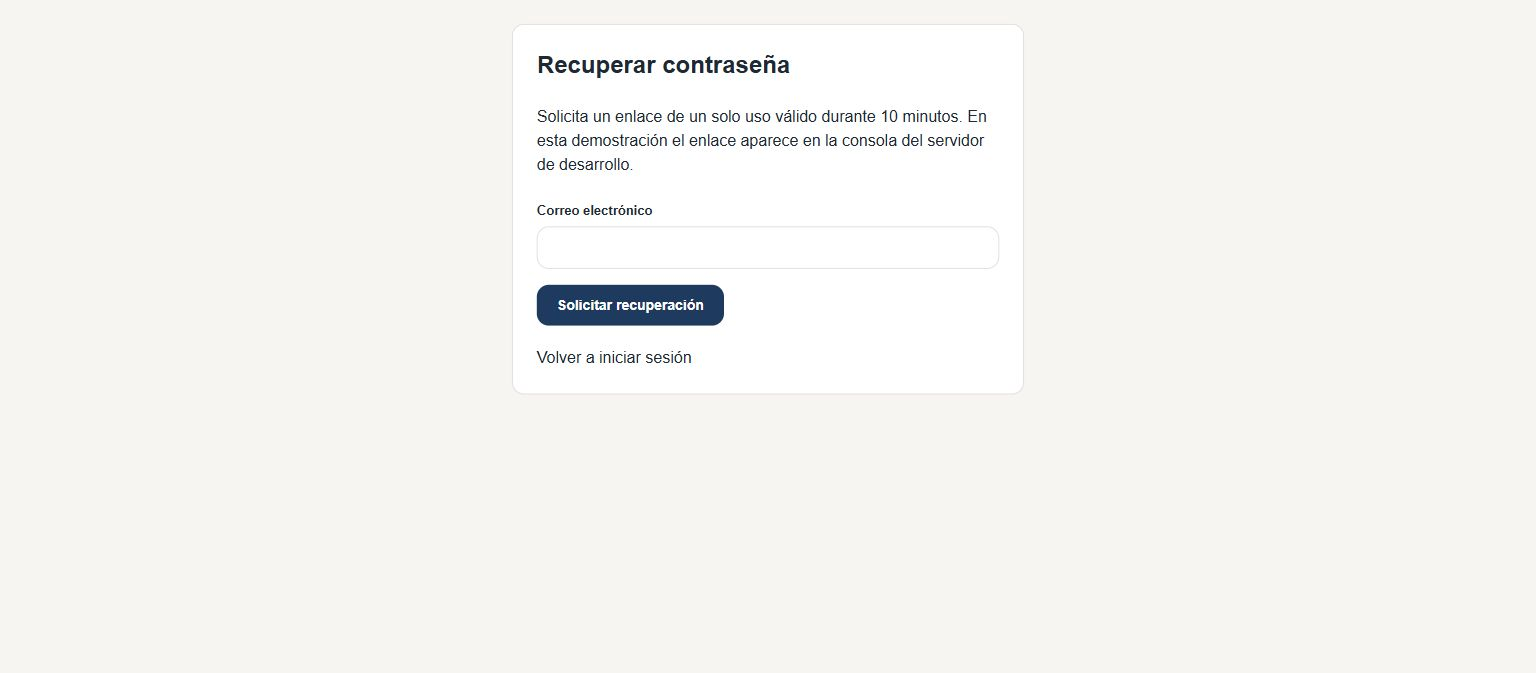
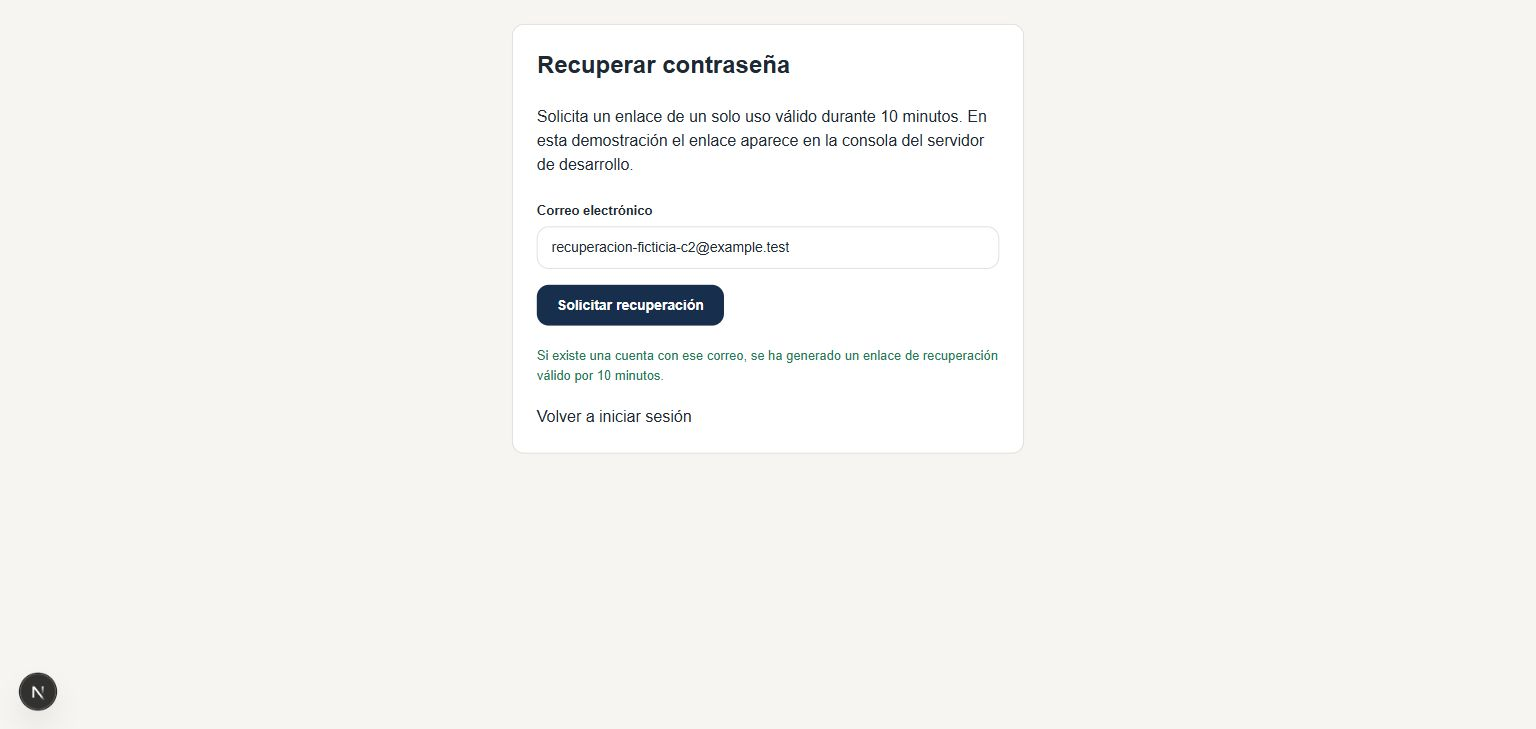
christian: verificar integracion de identidad roles y sesiones C2

diff --git a/src/tests/auth-c2.integration.ts b/src/tests/auth-c2.integration.ts
@@ -1,0 +1,143 @@
+/** Lunes 16/11: npm run dev y luego
+ * node --env-file=.env --import tsx src/tests/auth-c2.integration.ts
+ * --evidence mantiene fixtures propios hasta pulsar Enter para capturar el navegador.
+ * No modifica cuentas demo ni código de otros módulos.
+ */
+import assert from "node:assert/strict";
+import { randomUUID } from "node:crypto";
+import { createInterface } from "node:readline/promises";
+import bcrypt from "bcryptjs";
+import type { Role } from "@prisma/client";
+import { prisma } from "@/lib/prisma";
+import { encryptCedula } from "@/lib/auth/crypto";
+import { requireRole } from "@/lib/auth/guards";
+import { getUserFromCookieHeader } from "@/lib/auth/session";
+// Importaciones reales de consumidores: comprueban el mismo contrato sin editar sus archivos.
+import { authenticateSocketHandshake } from "@/server/socket/index";
+
+const origin = "http://localhost:3000";
+const password = "Una frase ficticia para integrar el lunes!";
+const emails: string[] = [];
+let phase = "rutas sin sesión";
+const call = (url: string, cookie?: string, body?: unknown) => fetch(`${origin}${url}`, {
+  method: body === undefined ? "GET" : "POST", redirect: "manual", signal: AbortSignal.timeout(30000),
+  headers: { Origin: origin, ...(cookie ? { Cookie: cookie } : {}), "Content-Type": "application/json" },
+  ...(body === undefined ? {} : { body: JSON.stringify(body) }),
+});
+function privateResponse(text: string, secrets: string[] = []) {
+  for (const secret of ["passwordHash", "cedulaCifrada", "tokenHash", password, ...secrets]) {
+    assert.ok(!text.includes(secret), "Respuesta con credenciales o campos privados.");
+  }
+}
+async function redirected(url: string, cookie?: string) {
+  const response = await call(url, cookie);
+  const html = await response.text();
+  if ([303, 307, 308].includes(response.status)) {
+    assert.equal(new URL(response.headers.get("location")!, origin).pathname, "/iniciar-sesion");
+  } else {
+    assert.equal(response.status, 200);
+    assert.ok((html.match(/<meta\b[^>]*>/g) ?? []).some((meta) =>
+      /http-equiv="refresh"/i.test(meta) && /content="\d+;url=\/iniciar-sesion"/.test(meta)));
+  }
+  privateResponse(html);
+  assert.ok(!html.includes("Mi perfil"));
+  assert.ok(!html.includes("Administración de usuarios"));
+}
+async function fixture(role: Role) {
+  const email = `c2-${randomUUID()}@example.test`;
+  emails.push(email);
+  return prisma.user.create({ data: {
+    nombreCompleto: "Cuenta ficticia C2", email, status: "ACTIVA",
+    passwordHash: await bcrypt.hash(password, 12), cedulaCifrada: encryptCedula("1234567890"),
+    roles: { create: { role } },
+  } });
+}
+async function credential(email: string) {
+  const response = await call("/api/auth/login", undefined, { email, password, roles: ["ADMIN_SUBASTAS"] });
+  assert.equal(response.status, 200);
+  const setCookie = response.headers.get("set-cookie")!;
+  for (const flag of ["HttpOnly", "SameSite=Lax", "Path=/"]) assert.ok(setCookie.includes(flag));
+  privateResponse(await response.text());
+  return setCookie.split(";")[0];
+}
+async function main() {
+  try {
+    for (const url of ["/panel", "/perfil", "/admin/usuarios"]) await redirected(url);
+    for (const url of ["/api/auth/me", "/api/admin/users", "/api/articles", "/api/verification", "/api/me/bids"]) {
+      assert.equal((await call(url)).status, 401, url);
+    }
+    assert.equal((await call("/api/auctions", undefined, {})).status, 401);
+    console.log("PASS C2: rutas SSR directas redirigen; APIs auth/artículos/verificación/pujas/subastas exigen sesión.");
+
+    const admin = await fixture("ADMIN_SUBASTAS"), buyer = await fixture("COMPRADOR");
+    const adminCookie = await credential(admin.email), buyerCookie = await credential(buyer.email);
+    phase = "matriz de roles y privacidad";
+    for (const [cookie, expected] of [[buyerCookie, 403], [adminCookie, 200]] as const) {
+      const response = await call("/api/admin/users", cookie);
+      assert.equal(response.status, expected);
+      privateResponse(await response.text(), [admin.passwordHash, buyer.cedulaCifrada]);
+    }
+    const me = await call("/api/auth/me", buyerCookie);
+    assert.equal(me.status, 200);
+    assert.deepEqual(Object.keys((await me.json()).data.user).sort(), ["email", "id", "nombreCompleto", "roles", "status"]);
+    const denied = await call("/admin/usuarios", buyerCookie);
+    const deniedHtml = await denied.text();
+    assert.ok(deniedHtml.includes("Acceso restringido"));
+    assert.ok(!deniedHtml.includes("Administración de usuarios"));
+    for (const url of ["/panel", "/perfil", "/admin/usuarios"]) {
+      const response = await call(url, adminCookie);
+      assert.equal(response.status, 200);
+      privateResponse(await response.text(), [admin.passwordHash, admin.cedulaCifrada, adminCookie.split("=")[1]]);
+    }
+    for (const url of ["/api/articles", "/api/verification"]) assert.equal((await call(url, buyerCookie)).status, 403, url);
+    assert.equal((await call("/api/auctions", buyerCookie, {})).status, 403);
+    assert.equal((await call("/api/me/bids", buyerCookie)).status, 200);
+    console.log("PASS C2: usuarios 401/403/200, comprador sin privilegios inventados; SSR y JSON sin hashes ni tokens.");
+
+    phase = "contrato Socket.IO";
+    const socket: Parameters<typeof authenticateSocketHandshake>[0] = { handshake: { headers: { cookie: buyerCookie } } as never, data: {} };
+    const handshakeResults: (Error | undefined)[] = [];
+    await authenticateSocketHandshake(socket, (error) => { handshakeResults.push(error); });
+    assert.deepEqual(handshakeResults, [undefined]);
+    assert.equal(socket.data.userId, buyer.id);
+    assert.deepEqual(socket.data.roles, ["COMPRADOR"]);
+    assert.equal((await getUserFromCookieHeader(buyerCookie))?.id, buyer.id);
+    const deniedHandshake: (Error | undefined)[] = [];
+    await authenticateSocketHandshake({ handshake: { headers: {} } as never, data: {} }, (error) => { deniedHandshake.push(error); });
+    assert.equal(deniedHandshake.length, 1);
+    assert.equal(deniedHandshake[0]?.message, "UNAUTHORIZED");
+    console.log("PASS C2: handshake real de Kevin importa el helper y resuelve la misma cookie pf_session contra PostgreSQL.");
+
+    phase = "cambio de rol persistido sin renovar cookie";
+    await prisma.userRole.updateMany({ where: { userId: admin.id }, data: { role: "COMPRADOR" } });
+    assert.equal((await getUserFromCookieHeader(adminCookie))?.roles[0], "COMPRADOR");
+    await assert.rejects(() => requireRole(new Request(`${origin}/api/test`, { headers: { Cookie: adminCookie } }), ["ADMIN_SUBASTAS"]), { status: 403 });
+    assert.equal((await call("/api/admin/users", adminCookie)).status, 403);
+    const changedPage = await call("/admin/usuarios", adminCookie);
+    assert.ok((await changedPage.text()).includes("Acceso restringido"));
+    await prisma.user.update({ where: { id: admin.id }, data: { status: "SUSPENDIDA" } });
+    assert.equal((await call("/api/auth/me", adminCookie)).status, 401);
+    await redirected("/perfil", adminCookie);
+    console.log("PASS C2: un cambio real de rol o suspensión revoca acceso en la siguiente petición con la misma cookie.");
+
+    if (process.argv.includes("--evidence")) {
+      console.log(`EVIDENCE comprador ficticio: ${buyer.email}`);
+      const terminal = createInterface({ input: process.stdin, output: process.stdout });
+      try { await terminal.question("EVIDENCE: Enter para limpiar las cuentas de este run.\n"); }
+      finally { terminal.close(); }
+    }
+  } finally {
+    const users = await prisma.user.findMany({ where: { email: { in: emails } }, select: { id: true } });
+    const ids = users.map(({ id }) => id);
+    await prisma.$transaction([
+      prisma.auditEvent.deleteMany({ where: { actorId: { in: ids } } }),
+      prisma.session.deleteMany({ where: { userId: { in: ids } } }),
+      prisma.userRole.deleteMany({ where: { userId: { in: ids } } }),
+      prisma.user.deleteMany({ where: { id: { in: ids } } }),
+    ]);
+    assert.equal(await prisma.user.count({ where: { email: { in: emails } } }), 0);
+    await prisma.$disconnect();
+    console.log("PASS C2: limpieza de cuentas, sesiones, roles y auditorías de fixtures propios.");
+  }
+}
+main().catch(() => { console.error(`FAIL C2 en ${phase}. No se imprimen credenciales.`); process.exitCode = 1; });

diff --git a/src/tests/auth.test.ts b/src/tests/auth.test.ts
@@ -544,6 +544,47 @@ describe("Christian C0 — sesión SSR usada por /panel", () => {
   });
 });
 
+describe("Christian C2 — límites de identidad e integración", () => {
+  it("verifica la contraseña contra hashes con sal distinta y cifra la cédula con IV distinto", async () => {
+    const password = "Una frase ficticia para integrar el lunes!";
+    const hashes = await Promise.all([bcrypt.hash(password, 4), bcrypt.hash(password, 4)]);
+    expect(hashes[0]).not.toBe(hashes[1]);
+    for (const passwordHash of hashes) {
+      expect(await bcrypt.compare(password, passwordHash)).toBe(true);
+      expect(await bcrypt.compare("Una frase diferente para la prueba!", passwordHash)).toBe(false);
+    }
+    const cedula = "1234567890";
+    const encrypted = [encryptCedula(cedula), encryptCedula(cedula)];
+    expect(encrypted[0]).not.toBe(encrypted[1]);
+    for (const ciphertext of encrypted) {
+      expect(ciphertext).not.toBe(cedula);
+      expect(decryptCedula(ciphertext)).toBe(cedula);
+    }
+  });
+  it("un login con roles y estado inventados conserva solo los permisos de PostgreSQL", async () => {
+    const password = "Una frase ficticia para integrar el lunes!";
+    db.user.findUnique.mockResolvedValue({ ...user, passwordHash: await bcrypt.hash(password, 4) });
+    const response = await login(mutation("/api/auth/login", {
+      email: user.email, password, roles: ["ADMIN_SUBASTAS"], status: "ACTIVA",
+    }));
+    expect(response.status).toBe(200);
+    expect((await response.json()).data.user.roles).toEqual(["COMPRADOR"]);
+    await expect(requireRole(request(), ["ADMIN_SUBASTAS"])).rejects.toMatchObject({ status: 403, code: "ROL_NO_PERMITIDO" });
+  });
+  it("un reset que vence exactamente ahora no cambia contraseña ni revoca sesiones", async () => {
+    vi.useFakeTimers({ toFake: ["Date"] });
+    const now = new Date("2026-11-16T15:00:00Z");
+    vi.setSystemTime(now);
+    db.passwordReset.findUnique.mockResolvedValue({ id: "reset", userId: user.id, usedAt: null, expiresAt: now });
+    const response = await reset(mutation("/api/auth/reset-password", { token, newPassword: "Una frase ficticia para integrar el lunes!" }));
+    expect(response.status).toBe(400);
+    expect((await response.json()).error.code).toBe("TOKEN_INVALIDO");
+    expect(db.$transaction).not.toHaveBeenCalled();
+    expect(db.user.update).not.toHaveBeenCalled();
+    expect(db.session.deleteMany).not.toHaveBeenCalled();
+  });
+});
+
 describe("Christian C0 — privacidad de respuestas HTTP", () => {
   it("no incluye token ni credenciales en JSON de login/me y limita el select del usuario", async () => {
     const password = "Mi frase ficticia segura 2026!";

diff --git a/docs/evidencias/christian-c2.md b/docs/evidencias/christian-c2.md
@@ -1,0 +1,77 @@
+# Christian C2 — integración e identidad, lunes 16/11/2026
+
+Guía aplicada: `Fuentes/Christian.md`, apartado **LUNES 16/11**. Rama personal: `christian`. Base sincronizada con `origin/main` en `df761d8` mediante avance rápido, sin conflictos; la referencia local `main` también se actualizó.
+
+## Comprobación previa a C2
+
+- Node.js `v24.15.0`, npm `11.12.1`, PostgreSQL 16 en Docker Desktop, entorno local Windows.
+- Se inició Docker Desktop y `docker compose up -d db`. `npx.cmd prisma migrate deploy`: una migración existente, ninguna pendiente. Se regeneró Prisma Client.
+- `npm.cmd run lint`: correcto. `npm.cmd test`: **320 pruebas existentes aprobadas** en siete archivos.
+- La primera compilación falló en el proceso auxiliar de transformación CSS de Turbopack. Repetir fuera del sandbox produjo el mismo fallo. Se detuvo el servidor y se eliminó exclusivamente la carpeta generada `.next`, verificando que su ruta absoluta perteneciera al proyecto. Con caché limpia, `npm.cmd run build` terminó correctamente, incluida comprobación TypeScript y generación de 41 páginas. No se cambiaron dependencias, configuración ni estilos.
+- `auth.integration.ts`: comprobación HTTP/PostgreSQL real de login, cookie HttpOnly/SameSite, hash de sesión, privacidad, panel por rol, sesiones caducadas/revocadas, CSRF y logout. También rechaza combinaciones de roles no permitidas.
+- `auth-c1.integration.ts`: registro real con PNG ficticio privado, cuenta pendiente, permisos de identidad, apertura explícita y lectura auditada antes de activar, rollback al fallar auditoría, activaciones concurrentes 200/409, perfil y recuperación. Los fixtures propios se eliminaron al finalizar.
+
+## Entrega del lunes
+
+No fue necesario cambiar las firmas ni las rutas de autenticación: los consumidores integrados ya son compatibles. Se añadieron tres regresiones a `src/tests/auth.test.ts`:
+
+1. Una misma contraseña se verifica contra hashes bcrypt con sales distintas; una misma cédula ficticia produce cifrados distintos y recuperables.
+2. Enviar `roles: ["ADMIN_SUBASTAS"]` en login no eleva los permisos del comprador persistido en PostgreSQL.
+3. Un reset que vence exactamente en el instante actual es rechazado sin cambiar contraseña ni sesiones.
+
+`src/tests/auth-c2.integration.ts` ejecuta contra HTTP y PostgreSQL:
+
+| Comprobación | Resultado observado |
+|---|---|
+| `/panel`, `/perfil`, `/admin/usuarios` sin cookie | Redirección al login, incluida la redirección transmitida por streaming de Next.js |
+| `/api/auth/me`, `/api/admin/users` sin cookie | 401 |
+| `/api/admin/users` con comprador / admin | 403 / 200 |
+| `/admin/usuarios` con comprador | Acceso restringido renderizado en servidor, sin tabla administrativa |
+| `/api/auth/me` autenticado | Solo `id`, `nombreCompleto`, `email`, `roles`, `status` |
+| JSON y SSR autenticados | Sin `passwordHash`, `cedulaCifrada`, `tokenHash`, contraseña ni token de sesión |
+| Artículos y verificación: lectura sin sesión / con comprador | 401 / 403 |
+| Creación de subasta sin sesión / con comprador | 401 / 403, antes de procesar datos comerciales |
+| Ofertas propias sin sesión / con comprador | 401 / 200 |
+| `requireRole(request, ['ADMIN_SUBASTAS'])` | Usa roles actuales de PostgreSQL; 403 después de retirar el rol |
+| Handshake importado de Kevin | Resuelve `pf_session` mediante el helper compartido; sin cookie rechaza `UNAUTHORIZED` |
+| Cambio de admin a comprador manteniendo cookie | API y SSR administrativos dejan de autorizar |
+| Suspensión manteniendo cookie | `/api/auth/me` devuelve 401 y `/perfil` redirige al login |
+
+Las modificaciones de rol/estado se limitan a cuentas ficticias creadas por el propio script en la base local. No se añadió una ruta de cambio de roles ni se modificaron cuentas demo.
+
+También se repitió `auth-c1.integration.ts` con `C1_IDENTITY_FORMAT=pdf`: sin abrir PDF la activación devuelve conflicto; abrirlo entrega sus bytes por el acceso protegido y genera una consulta auditada. Reset de 10 minutos, expiración, dos consumos concurrentes, rechazo de reutilización e invalidación de todas las sesiones aprobados sobre PostgreSQL.
+
+## Verificación final
+
+- `npm.cmd run lint`: correcto.
+- `npm.cmd test`: **323 pruebas aprobadas**, siete archivos (320 previas y tres nuevas).
+- `npm.cmd run build`: correcto, TypeScript y 41 páginas generadas.
+- Integraciones C0, C1 con PNG, C1 con PDF y C2: aprobadas con PostgreSQL real; limpieza de sus fixtures completada.
+- En Windows hay que detener `npm.cmd run dev` antes de `npm.cmd run build`: `prisma generate` no puede sustituir la DLL que tiene cargada el servidor. En esta ejecución también fue necesario limpiar `.next` para retirar artefactos bloqueados de la compilación anterior. Se conservó toda la configuración del repositorio.
+
+## Reproducción
+
+Con Docker y `.env` local configurados:
+
+```powershell
+docker compose up -d db
+npx.cmd prisma migrate deploy
+npm.cmd run dev
+# En otra terminal:
+node --env-file=.env --import tsx src/tests/auth.integration.ts
+node --env-file=.env --import tsx src/tests/auth-c1.integration.ts
+$env:C1_IDENTITY_FORMAT = 'pdf'
+node --env-file=.env --import tsx src/tests/auth-c1.integration.ts
+Remove-Item Env:C1_IDENTITY_FORMAT
+node --env-file=.env --import tsx src/tests/auth-c2.integration.ts
+```
+
+Para capturas, añadir `--evidence` al último comando: conserva una cuenta compradora ficticia hasta pulsar Enter en esa terminal; después elimina cuentas, sesiones, roles y auditorías propios. No interrumpir la terminal mientras se toman las capturas. Las pruebas no requieren ejecutar el seed sobre las cuentas existentes.
+
+## Evidencia visual y alcance
+
+- `christian-roles.png`: navegador autenticado con comprador ficticio, navegación directa a `/admin/usuarios`, mensaje «Acceso restringido».
+- `christian-recuperacion.png`: respuesta genérica del formulario de recuperación para un correo ficticio. El uso único y la caducidad se demuestran mediante las pruebas, no por esta captura.
+- No se modificaron archivos de Kevin, Leonel, Antony o Jonathan, modelos, rutas, estilos, dependencias ni nombres de cookies.
+- La integración del handshake comprueba su función real con PostgreSQL; no constituye una prueba de transporte WebSocket, WSS ni una demostración de chat con dos clientes. Las pruebas globales incluyen los módulos comerciales, pero esta evidencia C2 no atribuye un recorrido comercial completo con base real.
+- Uso de IA: Codex apoyó la revisión de contratos, implementación de pruebas, ejecución local y captura de evidencia. Los resultados anteriores proceden de comandos ejecutados; la explicación académica y revisión humana corresponden al responsable.
